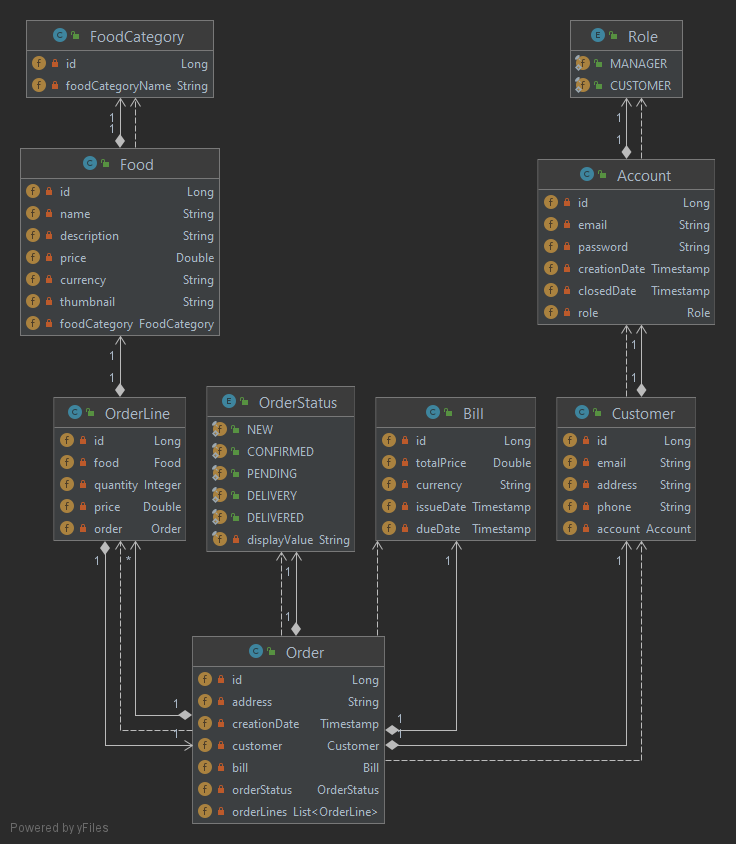
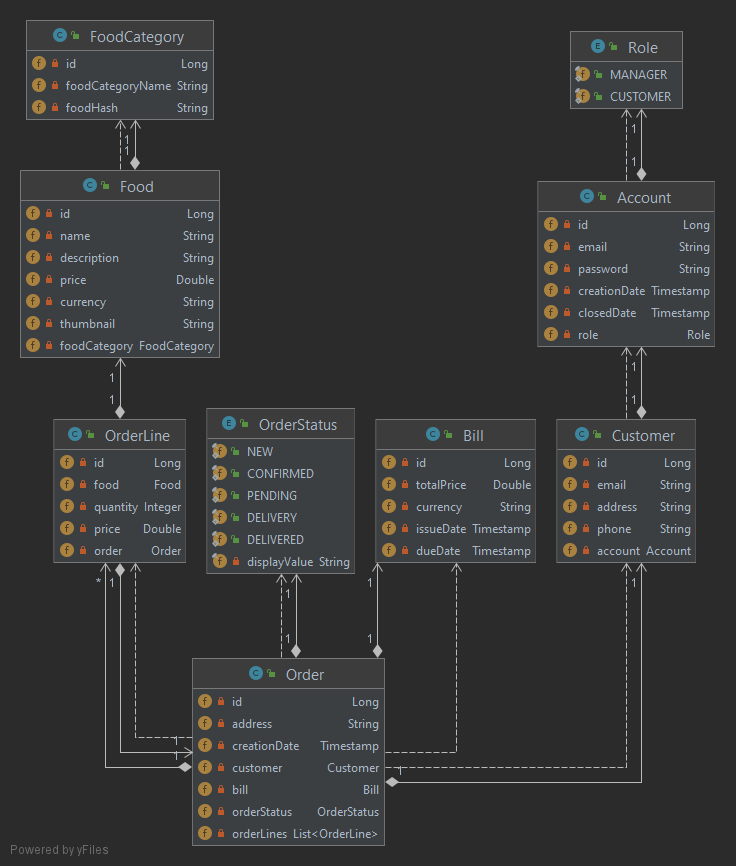
Basic foods page with bootstrap and flex

diff --git a/src/main/resources/templates/foods.html b/src/main/resources/templates/foods.html
@@ -15,20 +15,21 @@
     <div class="d-flex justify-content-end">
         <a href="/login" class="btn btn-success"><i class="fas fa-sign-in-alt"></i> Login</a>
         <a href="/registration" class="btn btn-primary"><i class="fas fa-user-plus ml-2"></i> Register</a>
+        <a href="/registration" class="btn btn-warning"><i class="fas fa-cart-plus"></i> My Orders</a>
     </div>
 
     <p class=""><a href="/add-food" class="btn btn-primary"><i class="fas fa-user-plus ml-2"></i></a></p>
     <h2 class="center-text blood">Foods MENU</h2>
-    <a href="#pizzaloc">Pizza</a>
-    <a href="#burgerloc">Burger</a>
-
-    <div th:each="foodcategory : ${foodcategories}" class="blood">
-        <h1 th:text="${foodcategory.getFoodCategoryName()}"></h1>
-    </div>
 
 
     <div class="d-flex flex-wrap justify-content-between">
-        <div th:each="food : ${foods}" class="center-text">
+        <div th:each="food_category : ${food_categories}">
+            <a th:href="${food_category.getFoodHash()}" th:text="${food_category.getFoodCategoryName()}" class="food-category-name"></a>
+        </div>
+    </div>
+
+    <div class="d-flex flex-wrap justify-content-between">
+        <div th:each="food : ${foods}" class="center-text food-item-space">
             <img th:src="${food.thumbnail}" alt="" width="250" height="180">
             <h2 th:text="${food.name}"></h2>
             <h2 th:text="${food.price}+${food.currency}"></h2>
@@ -36,167 +37,20 @@
         </div>
     </div>
 
-    <div>
-        <h1 id="pizzaloc">PIZZA</h1>
-        Lorem ipsum dolor sit amet, consectetur adipiscing elit. Integer non ornare dolor. Vestibulum ultricies odio a
-        placerat blandit. Etiam aliquam efficitur lorem, vel luctus turpis. Vivamus pulvinar, enim eu dictum dapibus,
-        justo tellus porttitor massa, nec tristique lorem enim id erat. In hac habitasse platea dictumst. Etiam lectus
-        lacus, hendrerit nec vulputate non, rutrum eu sem. Aenean suscipit libero in orci mollis mattis. Maecenas vel
-        sollicitudin urna. Suspendisse in bibendum dolor. Morbi placerat imperdiet tincidunt. Etiam elementum ultricies
-        libero, maximus pulvinar orci sodales eget. Nam id elit sodales, vehicula felis accumsan, accumsan sapien.
-        Aenean malesuada enim lectus, ac blandit metus posuere et. Fusce eget bibendum neque.
-
-        Duis a erat at turpis iaculis mollis in ut nunc. Cras eget nulla porta tellus elementum lobortis sed eu ante.
-        Mauris luctus felis ac mauris tristique, vitae porta nisi fringilla. Integer risus ipsum, imperdiet sit amet
-        lacus laoreet, pharetra facilisis quam. Maecenas id eleifend risus. Proin orci turpis, egestas at dui non,
-        mollis tempus metus. Maecenas efficitur, dolor vel auctor aliquet, eros purus euismod quam, eu gravida est dolor
-        at eros. Sed scelerisque, erat vitae ullamcorper malesuada, sapien diam accumsan odio, a efficitur turpis eros
-        sed mauris. Phasellus fermentum, ligula eget feugiat volutpat, leo purus maximus ex, in facilisis mi tellus in
-        enim. Nam eu erat quis libero tempus dapibus a ut nisl. Praesent ultricies scelerisque ipsum vitae finibus.
-
-        Sed non dolor id ligula pretium varius nec viverra magna. Nunc ultricies magna vel metus malesuada, eu iaculis
-        ipsum bibendum. Cras imperdiet risus in vulputate mollis. Donec id augue ligula. Vestibulum diam urna, dignissim
-        ac ante vel, dignissim tempus leo. Duis eu lectus tortor. Duis molestie euismod consequat. Quisque sed congue
-        est. Aenean vulputate elementum metus, fringilla cursus nisi aliquam sed. Maecenas auctor mollis placerat.
-
-        Mauris auctor fermentum facilisis. Vestibulum vehicula eros quis luctus luctus. Sed lacinia viverra massa et
-        consequat. In condimentum magna et ligula convallis luctus. Sed sapien nibh, consequat in lobortis a,
-        sollicitudin non augue. Vivamus euismod vehicula lacus, vestibulum dictum velit. Pellentesque eu neque nisl.
-        Integer vel aliquam dolor. Proin laoreet est id elit cursus rutrum. Pellentesque non hendrerit magna.
-
-        Maecenas rhoncus lacus non nisl dignissim dictum. Suspendisse semper felis sapien, ac lacinia sapien auctor nec.
-        Nam feugiat turpis ac diam congue, nec pulvinar arcu eleifend. Ut eget mauris et metus ullamcorper eleifend. Sed
-        sagittis sed odio at luctus. Nullam posuere elit purus, non pulvinar mi porttitor at. Aenean sagittis odio in
-        malesuada lobortis. Nulla eu ipsum maximus, aliquet ipsum in, pellentesque lorem. Proin sagittis tristique arcu,
-        a congue leo egestas sed.
-
-        Suspendisse ac nisl ut dui tincidunt pharetra. Etiam vel convallis ligula. Donec vestibulum aliquet egestas. In
-        a pulvinar neque. Aenean maximus ex eget varius dapibus. Cras eu felis ipsum. Nullam tellus nisi, efficitur vel
-        dictum id, aliquam in dui. Phasellus lobortis blandit erat, quis scelerisque tortor pellentesque et.
-
-        Donec iaculis metus vitae enim cursus faucibus. Aliquam ultricies augue elementum efficitur faucibus. Praesent
-        lobortis, lacus eu faucibus auctor, augue lorem mattis ligula, vitae fringilla erat elit at sapien. Aenean
-        luctus justo ac vehicula imperdiet. Etiam quam eros, fringilla vel lacus sed, varius molestie velit. Praesent
-        enim erat, viverra a lacus sit amet, suscipit ultricies nisl. Aenean vitae interdum purus. Vestibulum
-        condimentum felis at dictum mattis. Aliquam sit amet enim sit amet felis bibendum iaculis. Aliquam nec felis a
-        felis efficitur pellentesque. In hendrerit ex non placerat molestie. Nulla non justo sed erat hendrerit
-        elementum gravida at odio. Aliquam at leo nec dolor hendrerit vehicula eget a magna. Donec eu mauris quis ipsum
-        aliquet pellentesque. Maecenas porttitor molestie ultrices. Ut efficitur sapien justo, ut feugiat purus varius
-        quis.
-
-        Donec iaculis quis neque eu semper. Suspendisse nulla odio, consectetur sed accumsan at, euismod at massa. Cras
-        quis lobortis nisi. Cras volutpat metus non tortor porta lacinia. Aenean vitae cursus lacus, quis iaculis nisi.
-        Nullam auctor aliquet diam eget convallis. Curabitur orci est, consectetur ac tincidunt nec, gravida a sapien.
-        Nulla facilisi. Suspendisse ultrices ligula id quam vestibulum, vitae euismod velit efficitur. Nullam tempus ac
-        velit dapibus facilisis. Integer a sodales magna, eu ultricies mi. Etiam sollicitudin turpis magna, in elementum
-        erat faucibus id. Vestibulum varius sem eros, at tincidunt lacus iaculis sed. Integer magna tortor, sodales et
-        augue at, varius placerat ante. Maecenas a risus et magna accumsan venenatis nec dictum ex. Aliquam bibendum
-        turpis at nisi ultricies, a molestie risus molestie.
-
-        Nam vestibulum sagittis felis nec vulputate. Suspendisse vehicula cursus pulvinar. Duis vitae ipsum ac tellus
-        pretium condimentum. Donec sed bibendum nibh. In euismod ante at libero mattis fermentum. Nullam ultrices at
-        sapien eget rhoncus. Suspendisse rhoncus orci orci, id consequat dolor semper pretium. Sed purus nunc, tristique
-        at magna nec, facilisis iaculis nisi. Fusce dapibus odio nec augue imperdiet tristique. Nullam vitae arcu
-        finibus, condimentum dui a, egestas justo. Maecenas enim nunc, egestas quis commodo eget, aliquet at nisl.
-        Integer gravida lacinia augue. Praesent in est diam.
-
-        Suspendisse non sapien sed mi efficitur pellentesque. Mauris pulvinar a quam nec dignissim. Proin nec magna
-        aliquam libero auctor rhoncus. In at ornare libero. Sed ultricies consectetur vehicula. Vestibulum luctus
-        egestas magna, sit amet ultrices neque ullamcorper tincidunt. Morbi laoreet sollicitudin lectus, id dapibus dui
-        tincidunt id. Cras tincidunt blandit lobortis. Integer eleifend urna eget ante posuere, egestas finibus felis
-        gravida.
-
-        Etiam a iaculis felis. Donec ut velit congue, laoreet lorem posuere, egestas ligula. Sed at varius tellus. In
-        semper hendrerit lectus in pulvinar. Suspendisse sit amet orci bibendum justo mattis ultrices in ac leo. Nullam
-        id aliquet est. Morbi interdum nulla et felis tincidunt, non mollis ipsum varius. Orci varius natoque penatibus
-        et magnis dis parturient montes, nascetur ridiculus mus. Nam id pharetra massa. Praesent elit risus, posuere sed
-        ornare eu, rhoncus ac magna. Aenean ut dapibus mi, vel convallis purus. Nam tristique orci id molestie posuere.
-        Curabitur at erat consectetur, euismod tellus varius, facilisis massa. Nullam suscipit lacus ut eros efficitur,
-        eu elementum libero consectetur. Duis fringilla, sapien ac venenatis rhoncus, libero metus tempor enim, suscipit
-        tempus sapien ante laoreet odio. Curabitur quis lacus laoreet, congue mi a, placerat erat.
+    <div th:each="food_category : ${food_categories}">
+        <h1 th:id="${food_category.getFoodCategoryName()}" th:text="${food_category.getFoodCategoryName()}"
+            class="center-text food-category-name"></h1>
+        <div class="d-flex flex-wrap ">
+            <div th:each="food : ${foods}">
+                <div th:if="${food.getFoodCategory().getId()==food_category.id}" class="center-text food-item-space">
+                    <img th:src="${food.thumbnail}" alt="" width="250" height="180">
+                    <h2 th:text="${food.name}"></h2>
+                    <h2 th:text="${food.price}+${food.currency}"></h2>
+                    <button type="button" class="btn btn-warning"><i class="fas fa-cart-plus"></i> Add To Cart</button>
+                </div>
+            </div>
+        </div>
     </div>
-
-    <div>
-        <h1 id="burgerloc">BURGER</h1>
-        Lorem ipsum dolor sit amet, consectetur adipiscing elit. Integer non ornare dolor. Vestibulum ultricies odio a
-        placerat blandit. Etiam aliquam efficitur lorem, vel luctus turpis. Vivamus pulvinar, enim eu dictum dapibus,
-        justo tellus porttitor massa, nec tristique lorem enim id erat. In hac habitasse platea dictumst. Etiam lectus
-        lacus, hendrerit nec vulputate non, rutrum eu sem. Aenean suscipit libero in orci mollis mattis. Maecenas vel
-        sollicitudin urna. Suspendisse in bibendum dolor. Morbi placerat imperdiet tincidunt. Etiam elementum ultricies
-        libero, maximus pulvinar orci sodales eget. Nam id elit sodales, vehicula felis accumsan, accumsan sapien.
-        Aenean malesuada enim lectus, ac blandit metus posuere et. Fusce eget bibendum neque.
-
-        Duis a erat at turpis iaculis mollis in ut nunc. Cras eget nulla porta tellus elementum lobortis sed eu ante.
-        Mauris luctus felis ac mauris tristique, vitae porta nisi fringilla. Integer risus ipsum, imperdiet sit amet
-        lacus laoreet, pharetra facilisis quam. Maecenas id eleifend risus. Proin orci turpis, egestas at dui non,
-        mollis tempus metus. Maecenas efficitur, dolor vel auctor aliquet, eros purus euismod quam, eu gravida est dolor
-        at eros. Sed scelerisque, erat vitae ullamcorper malesuada, sapien diam accumsan odio, a efficitur turpis eros
-        sed mauris. Phasellus fermentum, ligula eget feugiat volutpat, leo purus maximus ex, in facilisis mi tellus in
-        enim. Nam eu erat quis libero tempus dapibus a ut nisl. Praesent ultricies scelerisque ipsum vitae finibus.
-
-        Sed non dolor id ligula pretium varius nec viverra magna. Nunc ultricies magna vel metus malesuada, eu iaculis
-        ipsum bibendum. Cras imperdiet risus in vulputate mollis. Donec id augue ligula. Vestibulum diam urna, dignissim
-        ac ante vel, dignissim tempus leo. Duis eu lectus tortor. Duis molestie euismod consequat. Quisque sed congue
-        est. Aenean vulputate elementum metus, fringilla cursus nisi aliquam sed. Maecenas auctor mollis placerat.
-
-        Mauris auctor fermentum facilisis. Vestibulum vehicula eros quis luctus luctus. Sed lacinia viverra massa et
-        consequat. In condimentum magna et ligula convallis luctus. Sed sapien nibh, consequat in lobortis a,
-        sollicitudin non augue. Vivamus euismod vehicula lacus, vestibulum dictum velit. Pellentesque eu neque nisl.
-        Integer vel aliquam dolor. Proin laoreet est id elit cursus rutrum. Pellentesque non hendrerit magna.
-
-        Maecenas rhoncus lacus non nisl dignissim dictum. Suspendisse semper felis sapien, ac lacinia sapien auctor nec.
-        Nam feugiat turpis ac diam congue, nec pulvinar arcu eleifend. Ut eget mauris et metus ullamcorper eleifend. Sed
-        sagittis sed odio at luctus. Nullam posuere elit purus, non pulvinar mi porttitor at. Aenean sagittis odio in
-        malesuada lobortis. Nulla eu ipsum maximus, aliquet ipsum in, pellentesque lorem. Proin sagittis tristique arcu,
-        a congue leo egestas sed.
-
-        Suspendisse ac nisl ut dui tincidunt pharetra. Etiam vel convallis ligula. Donec vestibulum aliquet egestas. In
-        a pulvinar neque. Aenean maximus ex eget varius dapibus. Cras eu felis ipsum. Nullam tellus nisi, efficitur vel
-        dictum id, aliquam in dui. Phasellus lobortis blandit erat, quis scelerisque tortor pellentesque et.
-
-        Donec iaculis metus vitae enim cursus faucibus. Aliquam ultricies augue elementum efficitur faucibus. Praesent
-        lobortis, lacus eu faucibus auctor, augue lorem mattis ligula, vitae fringilla erat elit at sapien. Aenean
-        luctus justo ac vehicula imperdiet. Etiam quam eros, fringilla vel lacus sed, varius molestie velit. Praesent
-        enim erat, viverra a lacus sit amet, suscipit ultricies nisl. Aenean vitae interdum purus. Vestibulum
-        condimentum felis at dictum mattis. Aliquam sit amet enim sit amet felis bibendum iaculis. Aliquam nec felis a
-        felis efficitur pellentesque. In hendrerit ex non placerat molestie. Nulla non justo sed erat hendrerit
-        elementum gravida at odio. Aliquam at leo nec dolor hendrerit vehicula eget a magna. Donec eu mauris quis ipsum
-        aliquet pellentesque. Maecenas porttitor molestie ultrices. Ut efficitur sapien justo, ut feugiat purus varius
-        quis.
-
-        Donec iaculis quis neque eu semper. Suspendisse nulla odio, consectetur sed accumsan at, euismod at massa. Cras
-        quis lobortis nisi. Cras volutpat metus non tortor porta lacinia. Aenean vitae cursus lacus, quis iaculis nisi.
-        Nullam auctor aliquet diam eget convallis. Curabitur orci est, consectetur ac tincidunt nec, gravida a sapien.
-        Nulla facilisi. Suspendisse ultrices ligula id quam vestibulum, vitae euismod velit efficitur. Nullam tempus ac
-        velit dapibus facilisis. Integer a sodales magna, eu ultricies mi. Etiam sollicitudin turpis magna, in elementum
-        erat faucibus id. Vestibulum varius sem eros, at tincidunt lacus iaculis sed. Integer magna tortor, sodales et
-        augue at, varius placerat ante. Maecenas a risus et magna accumsan venenatis nec dictum ex. Aliquam bibendum
-        turpis at nisi ultricies, a molestie risus molestie.
-
-        Nam vestibulum sagittis felis nec vulputate. Suspendisse vehicula cursus pulvinar. Duis vitae ipsum ac tellus
-        pretium condimentum. Donec sed bibendum nibh. In euismod ante at libero mattis fermentum. Nullam ultrices at
-        sapien eget rhoncus. Suspendisse rhoncus orci orci, id consequat dolor semper pretium. Sed purus nunc, tristique
-        at magna nec, facilisis iaculis nisi. Fusce dapibus odio nec augue imperdiet tristique. Nullam vitae arcu
-        finibus, condimentum dui a, egestas justo. Maecenas enim nunc, egestas quis commodo eget, aliquet at nisl.
-        Integer gravida lacinia augue. Praesent in est diam.
-
-        Suspendisse non sapien sed mi efficitur pellentesque. Mauris pulvinar a quam nec dignissim. Proin nec magna
-        aliquam libero auctor rhoncus. In at ornare libero. Sed ultricies consectetur vehicula. Vestibulum luctus
-        egestas magna, sit amet ultrices neque ullamcorper tincidunt. Morbi laoreet sollicitudin lectus, id dapibus dui
-        tincidunt id. Cras tincidunt blandit lobortis. Integer eleifend urna eget ante posuere, egestas finibus felis
-        gravida.
-
-        Etiam a iaculis felis. Donec ut velit congue, laoreet lorem posuere, egestas ligula. Sed at varius tellus. In
-        semper hendrerit lectus in pulvinar. Suspendisse sit amet orci bibendum justo mattis ultrices in ac leo. Nullam
-        id aliquet est. Morbi interdum nulla et felis tincidunt, non mollis ipsum varius. Orci varius natoque penatibus
-        et magnis dis parturient montes, nascetur ridiculus mus. Nam id pharetra massa. Praesent elit risus, posuere sed
-        ornare eu, rhoncus ac magna. Aenean ut dapibus mi, vel convallis purus. Nam tristique orci id molestie posuere.
-        Curabitur at erat consectetur, euismod tellus varius, facilisis massa. Nullam suscipit lacus ut eros efficitur,
-        eu elementum libero consectetur. Duis fringilla, sapien ac venenatis rhoncus, libero metus tempor enim, suscipit
-        tempus sapien ante laoreet odio. Curabitur quis lacus laoreet, congue mi a, placerat erat.
-    </div>
-
-</div>
 </div>
 </body>
 </html>

diff --git a/src/main/resources/templates/foods2.html b/src/main/resources/templates/foods2.html
@@ -12,70 +12,45 @@
 <body>
 <div class="container">
 
+    <div class="d-flex justify-content-end">
+        <a href="/login" class="btn btn-success"><i class="fas fa-sign-in-alt"></i> Login</a>
+        <a href="/registration" class="btn btn-primary"><i class="fas fa-user-plus ml-2"></i> Register</a>
+        <a href="/registration" class="btn btn-warning"><i class="fas fa-cart-plus"></i> My Orders</a>
+    </div>
+
     <p class=""><a href="/add-food" class="btn btn-primary"><i class="fas fa-user-plus ml-2"></i></a></p>
-    <a href="#pizzaloc">Pizza</a>
-    <a href="#burgerloc">Burger</a>
     <h2 class="center-text blood">Foods MENU</h2>
+
+
     <div class="d-flex flex-wrap justify-content-between">
-        <div th:each="food : ${foods}" class="">
-            <img th:src="${food.thumbnail}" alt="" width="250" height="180">
-            <h2 th:text="${food.name}" class="center-text"></h2>
-            <h2 th:text="${food.price}+${food.currency}"></h2>
-            <button type="button" class="btn btn-warning">Add To Cart</button>
+        <div th:each="food_category : ${food_categories}">
+            <a th:href="${food_category.getFoodHash()}" th:text="${food_category.getFoodCategoryName()}" class="food-category-name"></a>
         </div>
     </div>
 
-    <div>
-        <h1 id="pizzaloc">PIZZA</h1>
-        Lorem ipsum dolor sit amet, consectetur adipiscing elit. Integer non ornare dolor. Vestibulum ultricies odio a placerat blandit. Etiam aliquam efficitur lorem, vel luctus turpis. Vivamus pulvinar, enim eu dictum dapibus, justo tellus porttitor massa, nec tristique lorem enim id erat. In hac habitasse platea dictumst. Etiam lectus lacus, hendrerit nec vulputate non, rutrum eu sem. Aenean suscipit libero in orci mollis mattis. Maecenas vel sollicitudin urna. Suspendisse in bibendum dolor. Morbi placerat imperdiet tincidunt. Etiam elementum ultricies libero, maximus pulvinar orci sodales eget. Nam id elit sodales, vehicula felis accumsan, accumsan sapien. Aenean malesuada enim lectus, ac blandit metus posuere et. Fusce eget bibendum neque.
-
-        Duis a erat at turpis iaculis mollis in ut nunc. Cras eget nulla porta tellus elementum lobortis sed eu ante. Mauris luctus felis ac mauris tristique, vitae porta nisi fringilla. Integer risus ipsum, imperdiet sit amet lacus laoreet, pharetra facilisis quam. Maecenas id eleifend risus. Proin orci turpis, egestas at dui non, mollis tempus metus. Maecenas efficitur, dolor vel auctor aliquet, eros purus euismod quam, eu gravida est dolor at eros. Sed scelerisque, erat vitae ullamcorper malesuada, sapien diam accumsan odio, a efficitur turpis eros sed mauris. Phasellus fermentum, ligula eget feugiat volutpat, leo purus maximus ex, in facilisis mi tellus in enim. Nam eu erat quis libero tempus dapibus a ut nisl. Praesent ultricies scelerisque ipsum vitae finibus.
-
-        Sed non dolor id ligula pretium varius nec viverra magna. Nunc ultricies magna vel metus malesuada, eu iaculis ipsum bibendum. Cras imperdiet risus in vulputate mollis. Donec id augue ligula. Vestibulum diam urna, dignissim ac ante vel, dignissim tempus leo. Duis eu lectus tortor. Duis molestie euismod consequat. Quisque sed congue est. Aenean vulputate elementum metus, fringilla cursus nisi aliquam sed. Maecenas auctor mollis placerat.
-
-        Mauris auctor fermentum facilisis. Vestibulum vehicula eros quis luctus luctus. Sed lacinia viverra massa et consequat. In condimentum magna et ligula convallis luctus. Sed sapien nibh, consequat in lobortis a, sollicitudin non augue. Vivamus euismod vehicula lacus, vestibulum dictum velit. Pellentesque eu neque nisl. Integer vel aliquam dolor. Proin laoreet est id elit cursus rutrum. Pellentesque non hendrerit magna.
-
-        Maecenas rhoncus lacus non nisl dignissim dictum. Suspendisse semper felis sapien, ac lacinia sapien auctor nec. Nam feugiat turpis ac diam congue, nec pulvinar arcu eleifend. Ut eget mauris et metus ullamcorper eleifend. Sed sagittis sed odio at luctus. Nullam posuere elit purus, non pulvinar mi porttitor at. Aenean sagittis odio in malesuada lobortis. Nulla eu ipsum maximus, aliquet ipsum in, pellentesque lorem. Proin sagittis tristique arcu, a congue leo egestas sed.
-
-        Suspendisse ac nisl ut dui tincidunt pharetra. Etiam vel convallis ligula. Donec vestibulum aliquet egestas. In a pulvinar neque. Aenean maximus ex eget varius dapibus. Cras eu felis ipsum. Nullam tellus nisi, efficitur vel dictum id, aliquam in dui. Phasellus lobortis blandit erat, quis scelerisque tortor pellentesque et.
-
-        Donec iaculis metus vitae enim cursus faucibus. Aliquam ultricies augue elementum efficitur faucibus. Praesent lobortis, lacus eu faucibus auctor, augue lorem mattis ligula, vitae fringilla erat elit at sapien. Aenean luctus justo ac vehicula imperdiet. Etiam quam eros, fringilla vel lacus sed, varius molestie velit. Praesent enim erat, viverra a lacus sit amet, suscipit ultricies nisl. Aenean vitae interdum purus. Vestibulum condimentum felis at dictum mattis. Aliquam sit amet enim sit amet felis bibendum iaculis. Aliquam nec felis a felis efficitur pellentesque. In hendrerit ex non placerat molestie. Nulla non justo sed erat hendrerit elementum gravida at odio. Aliquam at leo nec dolor hendrerit vehicula eget a magna. Donec eu mauris quis ipsum aliquet pellentesque. Maecenas porttitor molestie ultrices. Ut efficitur sapien justo, ut feugiat purus varius quis.
-
-        Donec iaculis quis neque eu semper. Suspendisse nulla odio, consectetur sed accumsan at, euismod at massa. Cras quis lobortis nisi. Cras volutpat metus non tortor porta lacinia. Aenean vitae cursus lacus, quis iaculis nisi. Nullam auctor aliquet diam eget convallis. Curabitur orci est, consectetur ac tincidunt nec, gravida a sapien. Nulla facilisi. Suspendisse ultrices ligula id quam vestibulum, vitae euismod velit efficitur. Nullam tempus ac velit dapibus facilisis. Integer a sodales magna, eu ultricies mi. Etiam sollicitudin turpis magna, in elementum erat faucibus id. Vestibulum varius sem eros, at tincidunt lacus iaculis sed. Integer magna tortor, sodales et augue at, varius placerat ante. Maecenas a risus et magna accumsan venenatis nec dictum ex. Aliquam bibendum turpis at nisi ultricies, a molestie risus molestie.
-
-        Nam vestibulum sagittis felis nec vulputate. Suspendisse vehicula cursus pulvinar. Duis vitae ipsum ac tellus pretium condimentum. Donec sed bibendum nibh. In euismod ante at libero mattis fermentum. Nullam ultrices at sapien eget rhoncus. Suspendisse rhoncus orci orci, id consequat dolor semper pretium. Sed purus nunc, tristique at magna nec, facilisis iaculis nisi. Fusce dapibus odio nec augue imperdiet tristique. Nullam vitae arcu finibus, condimentum dui a, egestas justo. Maecenas enim nunc, egestas quis commodo eget, aliquet at nisl. Integer gravida lacinia augue. Praesent in est diam.
-
-        Suspendisse non sapien sed mi efficitur pellentesque. Mauris pulvinar a quam nec dignissim. Proin nec magna aliquam libero auctor rhoncus. In at ornare libero. Sed ultricies consectetur vehicula. Vestibulum luctus egestas magna, sit amet ultrices neque ullamcorper tincidunt. Morbi laoreet sollicitudin lectus, id dapibus dui tincidunt id. Cras tincidunt blandit lobortis. Integer eleifend urna eget ante posuere, egestas finibus felis gravida.
-
-        Etiam a iaculis felis. Donec ut velit congue, laoreet lorem posuere, egestas ligula. Sed at varius tellus. In semper hendrerit lectus in pulvinar. Suspendisse sit amet orci bibendum justo mattis ultrices in ac leo. Nullam id aliquet est. Morbi interdum nulla et felis tincidunt, non mollis ipsum varius. Orci varius natoque penatibus et magnis dis parturient montes, nascetur ridiculus mus. Nam id pharetra massa. Praesent elit risus, posuere sed ornare eu, rhoncus ac magna. Aenean ut dapibus mi, vel convallis purus. Nam tristique orci id molestie posuere. Curabitur at erat consectetur, euismod tellus varius, facilisis massa. Nullam suscipit lacus ut eros efficitur, eu elementum libero consectetur. Duis fringilla, sapien ac venenatis rhoncus, libero metus tempor enim, suscipit tempus sapien ante laoreet odio. Curabitur quis lacus laoreet, congue mi a, placerat erat.
+    <div class="d-flex flex-wrap justify-content-between">
+        <div th:each="food : ${foods}" class="center-text food-item-space">
+            <img th:src="${food.thumbnail}" alt="" width="250" height="180">
+            <h2 th:text="${food.name}"></h2>
+            <h2 th:text="${food.price}+${food.currency}"></h2>
+            <button type="button" class="btn btn-warning"><i class="fas fa-cart-plus"></i> Add To Cart</button>
+        </div>
     </div>
 
-    <div>
-        <h1 id="burgerloc">BURGER</h1>
-        Lorem ipsum dolor sit amet, consectetur adipiscing elit. Integer non ornare dolor. Vestibulum ultricies odio a placerat blandit. Etiam aliquam efficitur lorem, vel luctus turpis. Vivamus pulvinar, enim eu dictum dapibus, justo tellus porttitor massa, nec tristique lorem enim id erat. In hac habitasse platea dictumst. Etiam lectus lacus, hendrerit nec vulputate non, rutrum eu sem. Aenean suscipit libero in orci mollis mattis. Maecenas vel sollicitudin urna. Suspendisse in bibendum dolor. Morbi placerat imperdiet tincidunt. Etiam elementum ultricies libero, maximus pulvinar orci sodales eget. Nam id elit sodales, vehicula felis accumsan, accumsan sapien. Aenean malesuada enim lectus, ac blandit metus posuere et. Fusce eget bibendum neque.
-
-        Duis a erat at turpis iaculis mollis in ut nunc. Cras eget nulla porta tellus elementum lobortis sed eu ante. Mauris luctus felis ac mauris tristique, vitae porta nisi fringilla. Integer risus ipsum, imperdiet sit amet lacus laoreet, pharetra facilisis quam. Maecenas id eleifend risus. Proin orci turpis, egestas at dui non, mollis tempus metus. Maecenas efficitur, dolor vel auctor aliquet, eros purus euismod quam, eu gravida est dolor at eros. Sed scelerisque, erat vitae ullamcorper malesuada, sapien diam accumsan odio, a efficitur turpis eros sed mauris. Phasellus fermentum, ligula eget feugiat volutpat, leo purus maximus ex, in facilisis mi tellus in enim. Nam eu erat quis libero tempus dapibus a ut nisl. Praesent ultricies scelerisque ipsum vitae finibus.
-
-        Sed non dolor id ligula pretium varius nec viverra magna. Nunc ultricies magna vel metus malesuada, eu iaculis ipsum bibendum. Cras imperdiet risus in vulputate mollis. Donec id augue ligula. Vestibulum diam urna, dignissim ac ante vel, dignissim tempus leo. Duis eu lectus tortor. Duis molestie euismod consequat. Quisque sed congue est. Aenean vulputate elementum metus, fringilla cursus nisi aliquam sed. Maecenas auctor mollis placerat.
-
-        Mauris auctor fermentum facilisis. Vestibulum vehicula eros quis luctus luctus. Sed lacinia viverra massa et consequat. In condimentum magna et ligula convallis luctus. Sed sapien nibh, consequat in lobortis a, sollicitudin non augue. Vivamus euismod vehicula lacus, vestibulum dictum velit. Pellentesque eu neque nisl. Integer vel aliquam dolor. Proin laoreet est id elit cursus rutrum. Pellentesque non hendrerit magna.
-
-        Maecenas rhoncus lacus non nisl dignissim dictum. Suspendisse semper felis sapien, ac lacinia sapien auctor nec. Nam feugiat turpis ac diam congue, nec pulvinar arcu eleifend. Ut eget mauris et metus ullamcorper eleifend. Sed sagittis sed odio at luctus. Nullam posuere elit purus, non pulvinar mi porttitor at. Aenean sagittis odio in malesuada lobortis. Nulla eu ipsum maximus, aliquet ipsum in, pellentesque lorem. Proin sagittis tristique arcu, a congue leo egestas sed.
-
-        Suspendisse ac nisl ut dui tincidunt pharetra. Etiam vel convallis ligula. Donec vestibulum aliquet egestas. In a pulvinar neque. Aenean maximus ex eget varius dapibus. Cras eu felis ipsum. Nullam tellus nisi, efficitur vel dictum id, aliquam in dui. Phasellus lobortis blandit erat, quis scelerisque tortor pellentesque et.
-
-        Donec iaculis metus vitae enim cursus faucibus. Aliquam ultricies augue elementum efficitur faucibus. Praesent lobortis, lacus eu faucibus auctor, augue lorem mattis ligula, vitae fringilla erat elit at sapien. Aenean luctus justo ac vehicula imperdiet. Etiam quam eros, fringilla vel lacus sed, varius molestie velit. Praesent enim erat, viverra a lacus sit amet, suscipit ultricies nisl. Aenean vitae interdum purus. Vestibulum condimentum felis at dictum mattis. Aliquam sit amet enim sit amet felis bibendum iaculis. Aliquam nec felis a felis efficitur pellentesque. In hendrerit ex non placerat molestie. Nulla non justo sed erat hendrerit elementum gravida at odio. Aliquam at leo nec dolor hendrerit vehicula eget a magna. Donec eu mauris quis ipsum aliquet pellentesque. Maecenas porttitor molestie ultrices. Ut efficitur sapien justo, ut feugiat purus varius quis.
-
-        Donec iaculis quis neque eu semper. Suspendisse nulla odio, consectetur sed accumsan at, euismod at massa. Cras quis lobortis nisi. Cras volutpat metus non tortor porta lacinia. Aenean vitae cursus lacus, quis iaculis nisi. Nullam auctor aliquet diam eget convallis. Curabitur orci est, consectetur ac tincidunt nec, gravida a sapien. Nulla facilisi. Suspendisse ultrices ligula id quam vestibulum, vitae euismod velit efficitur. Nullam tempus ac velit dapibus facilisis. Integer a sodales magna, eu ultricies mi. Etiam sollicitudin turpis magna, in elementum erat faucibus id. Vestibulum varius sem eros, at tincidunt lacus iaculis sed. Integer magna tortor, sodales et augue at, varius placerat ante. Maecenas a risus et magna accumsan venenatis nec dictum ex. Aliquam bibendum turpis at nisi ultricies, a molestie risus molestie.
-
-        Nam vestibulum sagittis felis nec vulputate. Suspendisse vehicula cursus pulvinar. Duis vitae ipsum ac tellus pretium condimentum. Donec sed bibendum nibh. In euismod ante at libero mattis fermentum. Nullam ultrices at sapien eget rhoncus. Suspendisse rhoncus orci orci, id consequat dolor semper pretium. Sed purus nunc, tristique at magna nec, facilisis iaculis nisi. Fusce dapibus odio nec augue imperdiet tristique. Nullam vitae arcu finibus, condimentum dui a, egestas justo. Maecenas enim nunc, egestas quis commodo eget, aliquet at nisl. Integer gravida lacinia augue. Praesent in est diam.
-
-        Suspendisse non sapien sed mi efficitur pellentesque. Mauris pulvinar a quam nec dignissim. Proin nec magna aliquam libero auctor rhoncus. In at ornare libero. Sed ultricies consectetur vehicula. Vestibulum luctus egestas magna, sit amet ultrices neque ullamcorper tincidunt. Morbi laoreet sollicitudin lectus, id dapibus dui tincidunt id. Cras tincidunt blandit lobortis. Integer eleifend urna eget ante posuere, egestas finibus felis gravida.
-
-        Etiam a iaculis felis. Donec ut velit congue, laoreet lorem posuere, egestas ligula. Sed at varius tellus. In semper hendrerit lectus in pulvinar. Suspendisse sit amet orci bibendum justo mattis ultrices in ac leo. Nullam id aliquet est. Morbi interdum nulla et felis tincidunt, non mollis ipsum varius. Orci varius natoque penatibus et magnis dis parturient montes, nascetur ridiculus mus. Nam id pharetra massa. Praesent elit risus, posuere sed ornare eu, rhoncus ac magna. Aenean ut dapibus mi, vel convallis purus. Nam tristique orci id molestie posuere. Curabitur at erat consectetur, euismod tellus varius, facilisis massa. Nullam suscipit lacus ut eros efficitur, eu elementum libero consectetur. Duis fringilla, sapien ac venenatis rhoncus, libero metus tempor enim, suscipit tempus sapien ante laoreet odio. Curabitur quis lacus laoreet, congue mi a, placerat erat.
+    <div th:each="food_category : ${food_categories}">
+        <h1 th:id="${food_category.getFoodCategoryName()}" th:text="${food_category.getFoodCategoryName()}"
+            class="center-text food-category-name"></h1>
+        <div class="d-flex flex-wrap ">
+            <div th:each="food : ${foods}">
+                <div th:if="${food.getFoodCategory().getId()==food_category.id}" class="center-text food-item-space">
+                    <img th:src="${food.thumbnail}" alt="" width="250" height="180">
+                    <h2 th:text="${food.name}"></h2>
+                    <h2 th:text="${food.price}+${food.currency}"></h2>
+                    <button type="button" class="btn btn-warning"><i class="fas fa-cart-plus"></i> Add To Cart</button>
+                </div>
+            </div>
+        </div>
     </div>
-
-</div>
 </div>
 </body>
 </html>

diff --git a/src/main/resources/static/css/style.css b/src/main/resources/static/css/style.css
@@ -1,8 +1,21 @@
-.center-text{
+.center-text {
     text-align: center;
 }
 
-.blood{
+.blood {
     color: red;
 }
 
+.food-category-name {
+    color: royalblue;
+    font: 25px italic;
+}
+
+.food-tag {
+    color: cadetblue;
+    font: 30px bold;
+}
+
+.food-item-space {
+    padding: 10px 0 10px 0;
+}

diff --git a/src/main/java/com/maneaandrei/sda/foodshop/model/FoodCategory.java b/src/main/java/com/maneaandrei/sda/foodshop/model/FoodCategory.java
@@ -13,9 +13,13 @@ public class FoodCategory {
     @Column(name = "name")
     private String foodCategoryName;
 
-    public FoodCategory(Long id, String foodCategoryName) {
+    @Column(name = "hash")
+    private String foodHash;
+
+    public FoodCategory(Long id, String foodCategoryName, String foodHash) {
         this.id = id;
         this.foodCategoryName = foodCategoryName;
+        this.foodHash = foodHash;
     }
 
     public FoodCategory() {
@@ -36,5 +40,13 @@ public class FoodCategory {
 
     public void setFoodCategoryName(String foodCategoryName) {
         this.foodCategoryName = foodCategoryName;
+    }
+
+    public String getFoodHash() {
+        return foodHash;
+    }
+
+    public void setFoodHash(String foodHash) {
+        this.foodHash = foodHash;
     }
 }

diff --git a/src/main/java/com/maneaandrei/sda/foodshop/controller/FoodController.java b/src/main/java/com/maneaandrei/sda/foodshop/controller/FoodController.java
@@ -28,7 +28,7 @@ public class FoodController {
         model.addAttribute("foods", foods);
 
         List<FoodCategory> food_categories = foodService.findAll().stream()
-                .map(food -> food.getFoodCategory()).collect(Collectors.toList());
+                .map(food -> food.getFoodCategory()).distinct().collect(Collectors.toList());
         model.addAttribute("food_categories", food_categories);
 
         return "foods";
